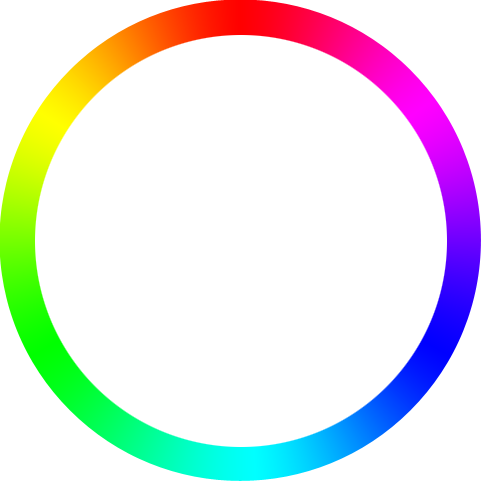
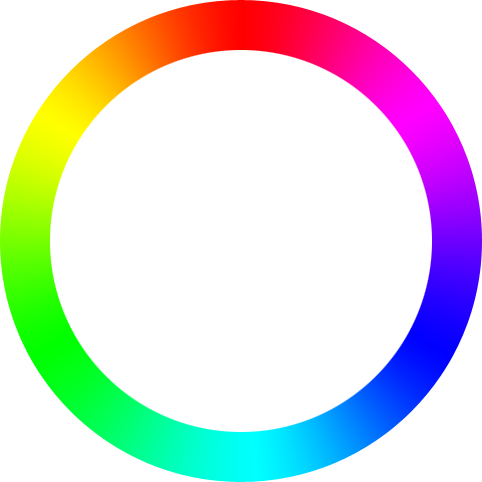
better looking hue ring, default indicator location for hue ring, moved some variables outside of IDropper class scope, made everything a bit more modular

diff --git a/iDropper.less b/iDropper.less
@@ -25,7 +25,7 @@
 			.iD-indicator-hue {
 				position: absolute; width: 7px; height: 7px;
 				margin-left: -3px; margin-top: -3px;
-				top: -9999px;
+				left: 50%; top: 2px;
 				border: 1px solid;
 				border-radius: 3px;
 			}

diff --git a/iDropper.css b/iDropper.css
@@ -29,7 +29,8 @@
   height: 7px;
   margin-left: -3px;
   margin-top: -3px;
-  top: -9999px;
+  left: 50%;
+  top: 2px;
   border: 1px solid;
   border-radius: 3px;
 }
